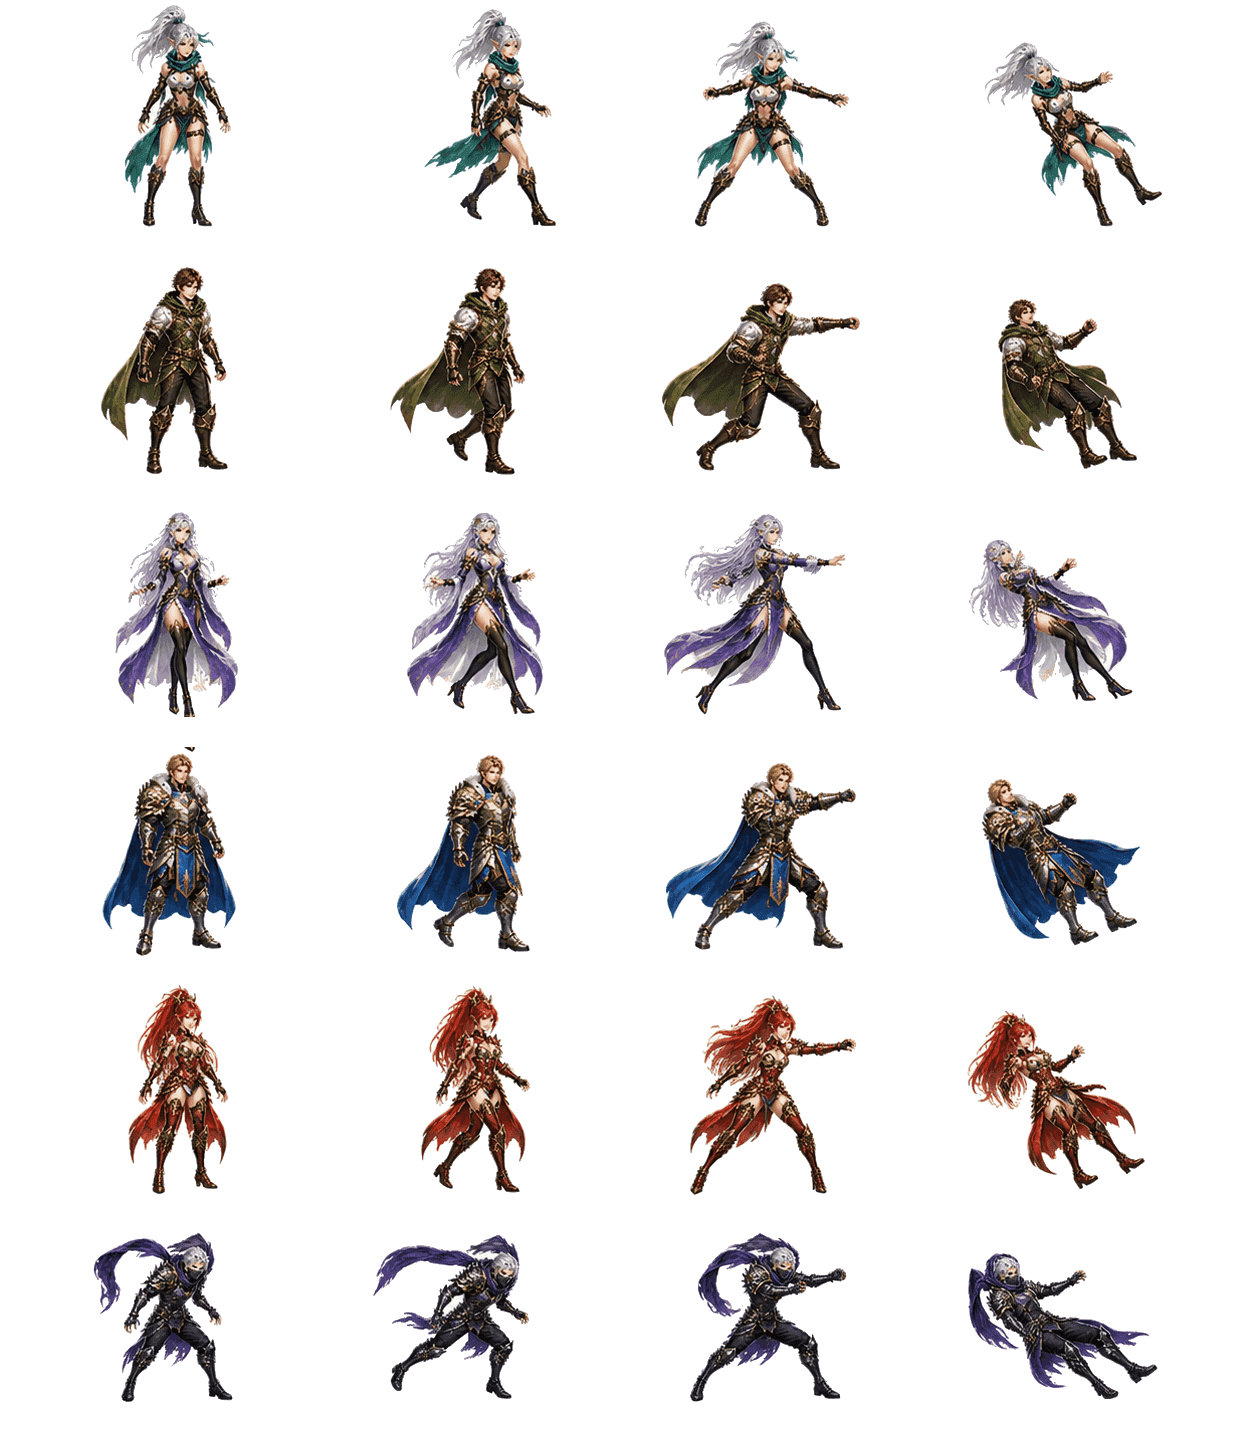
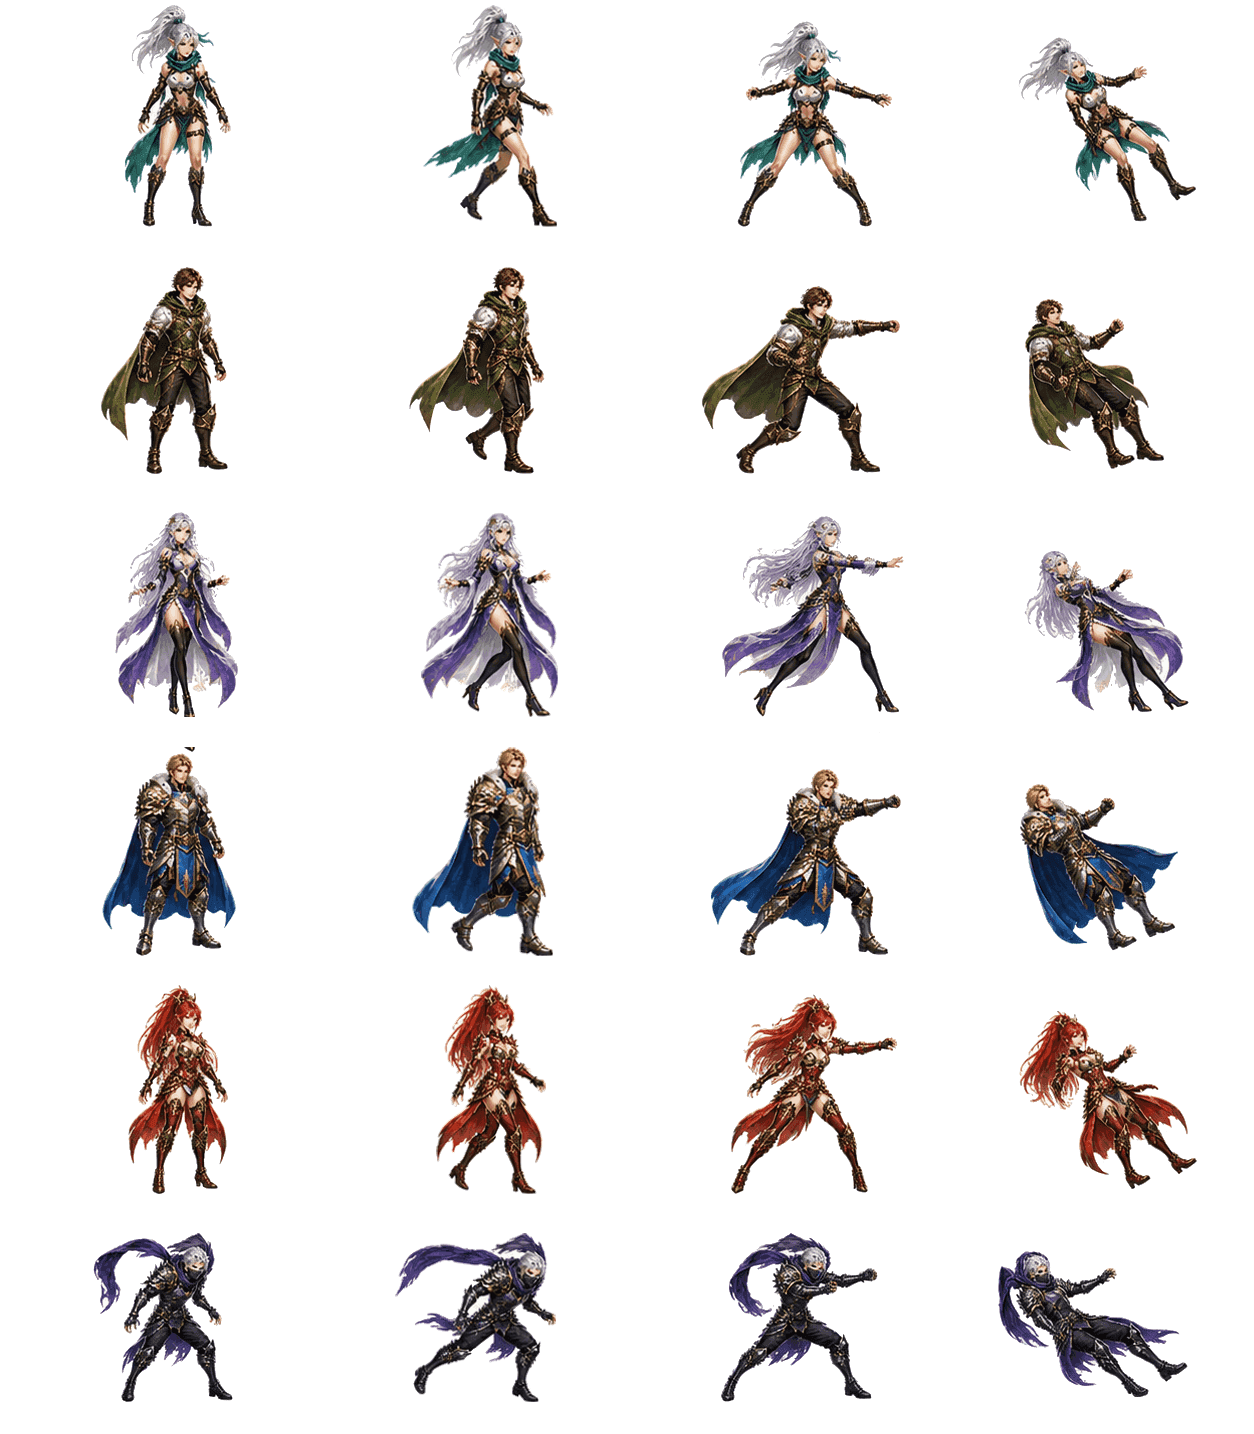
fix(anim): 애니메이션 잘림·어색함 8건 — 동료 가로 눌림 복구, 아틀라스 프레임 정규화, 몬스터 바닥선, 파티 퇴장 동기화, 균열 대열 축소, 화살 원정 바닥선·화살 깃, 대장간 불꽃
- SpriteArt WIDE_CELL: 폭 131.2%→150%·좌측 −25% (재패킹 때 세로만 늘었는데 폭도 줄여 셀 비율 1.312 가 1.147 로 찌그러져 있었다)
- scripts/normalize-ally-atlas.mjs (신규): 3개 아틀라스 31행 90칸 정규화 — 발 높이 편차 26→5px, 가로 중심 67→21px, 대기↔이동 키 차 37→0px
- App.css: 몬스터 이름표 절대 배치(아트가 바닥선에 닿음), party-run-out/in 거리를 min(112vw,760px) 로 통일(주인공·동료 8배 속도 차 해소)
- EventCenter/idle.css: 균열 대열 자동 축소(--rift-scale, 최대치 고정)·크기 축소·보스 이름표 절대 배치 — 뒤쪽 몬스터 2마리가 화면 밖이던 문제
- game/world.ts: HUD_BOTTOM_RESERVE=72 로 바닥을 조작 버튼 위로 (주인공이 버튼에 가려 있었다)
- game/draw.ts: 화살 꼬리 깃을 뒤로 눕힘 (앞쪽으로 벌어져 촉이 두 개로 보였다)
- ForgeGame: 불꽃 시작 위치 6~94% (왼쪽 잘림)
- scripts/verify-anim-clip.mjs (신규, 순차 러너 포함): 변환으로 클리핑 부모를 벗어나는 애니메이션 검출
- verify-checklist: 코치 2단계를 폴링으로 (순차 러너 간헐 실패)

diff --git a/src/idle.css b/src/idle.css
@@ -2323,25 +2323,27 @@
 
 /* 균열 진입 연출 */
 .rift-run { position: absolute; inset: 0; z-index: 30; display: grid; grid-template-rows: auto auto; align-content: center; gap: 10px; padding: 14px; border-radius: 22px; background: rgba(2, 6, 23, 0.94); animation: rift-run-in .25s ease-out; }
-.rift-run-field { position: relative; overflow: hidden; border-radius: 16px; background: var(--area-sky, #0f172a) var(--area-background) center / cover; height: clamp(230px, 44vh, 340px); }
+.rift-run-field { position: relative; overflow: hidden; border-radius: 16px; background: var(--area-sky, #0f172a) var(--area-background) center / cover; height: clamp(196px, 30vh, 260px); background-position: center 30%; }
 .rift-run-field::after { content: ""; position: absolute; inset: 0; background: linear-gradient(180deg, rgba(2,6,23,.25), rgba(2,6,23,.65)); }
 /* 한 줄 대열 — 동료·주인공·몬스터가 같은 바닥선에 이어 선다 */
-.rift-run-line { position: absolute; left: 2%; right: 2%; bottom: 13%; z-index: 2; display: flex; align-items: flex-end; gap: 4px; }
-.rift-run-party { display: flex; align-items: flex-end; gap: 0; --ally-size: 64px; flex: none; }
+/* 대열은 왼쪽 아래를 축으로 통째로 축소된다 (--rift-scale, EventCenter 가 측정해서 넣는다) */
+.rift-run-line { position: absolute; left: 2%; right: 2%; bottom: 12%; z-index: 2; display: flex; align-items: flex-end; gap: 4px; transform: scale(var(--rift-scale, 1)); transform-origin: left bottom; transition: transform .3s ease; }
+.rift-run-party { display: flex; align-items: flex-end; gap: 0; padding-left: 20px; --ally-size: 56px; flex: none; }
 .rift-run-party .titan-ally-art { position: relative !important; transform: none !important; left: auto !important; bottom: auto !important; }
-.rift-hero { display: block; width: 34px; height: 68px; margin-left: 2px; filter: drop-shadow(0 8px 8px rgba(0,0,0,.5)); }
+.rift-hero { display: block; width: 30px; height: 60px; margin-left: 2px; filter: drop-shadow(0 8px 8px rgba(0,0,0,.5)); }
 .rift-hero.is-striking { animation: rift-hero-strike .35s ease-out; }
 @keyframes rift-hero-strike { 40% { transform: translateX(6px); } }
 .rift-run-monsters { display: flex; align-items: flex-end; gap: 2px; flex: none; }
 /* 균열 몬스터 — 사냥터의 .titans-monster 종별 동작을 재사용하되 절대 배치는 끈다 */
 .rift-run-monsters { align-items: flex-end; }
-.rift-run-monsters .titans-monster { position: relative; right: auto; bottom: auto; min-width: 0; width: 70px; overflow: visible; transition: opacity .4s, transform .4s, width .4s, margin .4s; }
-.rift-run-monsters .titans-monster .titan-monster-art { width: 70px; height: 70px; }
+.rift-run-monsters .titans-monster { position: relative; right: auto; bottom: auto; min-width: 0; width: 62px; overflow: visible; transition: opacity .4s, transform .4s, width .4s, margin .4s; }
+.rift-run-monsters .titans-monster .titan-monster-art { width: 62px; height: 62px; }
 .rift-run-monsters .titans-monster.is-approaching { animation: rift-step-in .38s ease-out both; }
 @keyframes rift-step-in { from { transform: translateX(34px); opacity: .2; } }
-.rift-run-monsters .titans-monster.rift-boss { width: 96px; margin-left: 2px; }
-.rift-run-monsters .titans-monster.rift-boss .titan-monster-art { width: 96px; height: 96px; }
-.rift-run-monsters .titans-monster.rift-boss strong { font-size: 10px; color: #fde68a; text-shadow: 0 1px 3px #000; }
+.rift-run-monsters .titans-monster.rift-boss { width: 88px; margin-left: 2px; }
+.rift-run-monsters .titans-monster.rift-boss .titan-monster-art { width: 88px; height: 88px; }
+.rift-run-monsters .titans-monster.rift-boss { position: relative; }
+.rift-run-monsters .titans-monster.rift-boss strong { position: absolute; left: 50%; bottom: -2px; transform: translateX(-50%); white-space: nowrap; font-size: 10px; color: #fde68a; text-shadow: 0 1px 3px #000, 0 0 6px #000; pointer-events: none; }
 /* 쓰러지면 폭이 0 으로 접혀 다음 몬스터가 앞으로 당겨진다 */
 .rift-run-monsters .titans-monster.rift-down { opacity: 0; width: 0 !important; margin: 0; transform: translateY(8px) scale(.85); pointer-events: none; }
 .rift-run-monsters .titans-monster.rift-hidden { opacity: 0; width: 0 !important; margin: 0; transform: translateX(30px); pointer-events: none; }

diff --git a/src/EventCenter.tsx b/src/EventCenter.tsx
@@ -1,4 +1,4 @@
-import { useEffect, useMemo, useState } from "react";
+import { useEffect, useMemo, useRef, useState } from "react";
 import { combatPower, type CharacterProgress } from "./progression/model";
 import { testModeEnabled, updateCharacterProgress } from "./progression/storage";
 import { computeIdleYield, formatDuration, slotLevels, stageCeilingFor } from "./progression/idle";
@@ -586,6 +586,30 @@ function RiftRunOverlay({ run, area, party, progress, onClose }: { run: { name: 
     const done = window.setTimeout(onClose, RIFT_TICK_MS * RIFT_END_TICK);
     return () => { window.clearInterval(id); window.clearTimeout(done); };
   }, [onClose]);
+  // 대열이 필드보다 넓으면 통째로 줄인다 — 파티 3명 + 몬스터 3마리는 390px 화면에서 527px 이라
+  // 예전엔 뒤쪽 두 마리가 화면 밖에 서서 "몬스터가 한 마리뿐"으로 보였다 (2026-09-15 실측).
+  const lineRef = useRef<HTMLDivElement>(null);
+  const needRef = useRef(0);
+  const [lineScale, setLineScale] = useState(1);
+  useEffect(() => {
+    const el = lineRef.current;
+    if (!el) return;
+    const fit = () => {
+      const avail = el.clientWidth;
+      // 자식(동료 줄·몬스터 줄)의 레이아웃 폭만 더한다 — scrollWidth 는 .ally-body 의 투명 여백 넘침까지 세어 과하게 줄였다
+      const gap = parseFloat(getComputedStyle(el).columnGap || "0") || 0;
+      const kids = [...el.children] as HTMLElement[];
+      const width = kids.reduce((sum, k) => sum + k.offsetWidth, 0) + gap * Math.max(0, kids.length - 1);
+      // 쓰러진 몬스터가 접히면 필요 폭이 줄지만 축소율은 최대치로 고정한다 — 안 그러면 전투 내내 화면이 줌인된다
+      needRef.current = Math.max(needRef.current, width);
+      const need = needRef.current;
+      setLineScale(need > avail + 1 ? Math.max(0.6, avail / need) : 1);
+    };
+    fit();
+    const ro = new ResizeObserver(fit);
+    ro.observe(el);
+    return () => ro.disconnect();
+  }, [tick, party.length]);
   const tl = riftTimeline(tick);
   const kinds = [0, 1, 2].map((i) => area.normalKinds[i % area.normalKinds.length]);
   const monsterClass = (kind: string, phase: RiftPhase, i: number) => `titans-monster kind-${kind} combat-${kind === "dragon" ? "ranged" : "melee"} ${phase === "approach" ? "is-approaching action-idle" : phase === "prepare" ? "action-prepare" : phase === "attack" ? "action-attack" : phase === "hit" ? `action-idle ${(tick + i) % 2 ? "hit-a" : "hit-b"}` : "action-idle"} ${phase === "down" ? "rift-down" : ""} ${phase === "hidden" ? "rift-hidden" : ""}`;
@@ -595,7 +619,7 @@ function RiftRunOverlay({ run, area, party, progress, onClose }: { run: { name: 
     <div className="rift-run" role="status" onClick={onClose} style={{ "--area-sky": area.sky, "--area-background": `url(${area.background})` } as React.CSSProperties}>
       <div className="rift-run-field">
         {/* 한 줄 대열: 동료 → 주인공(선두) → 몬스터 줄. 쓰러진 몬스터는 폭 0 으로 접혀 다음 몬스터가 앞으로 당겨진다 — 예전엔 두 무리가 좌우 끝에 따로 서서 허공을 쳤다 */}
-        <div className="rift-run-line">
+        <div className="rift-run-line" ref={lineRef} style={{ "--rift-scale": lineScale } as React.CSSProperties}>
         <div className="rift-run-party">
           {party.map((id, i) => <AllyArt key={id} id={id as never} attacking pulse={tl.strike >= 0 ? tl.strike * 3 + i : 0} hitPulse={tl.monsters.some((p) => p === "attack") || tl.boss === "attack" ? tick : 0} partySlot={i} engaged />)}
           <span className={`rift-hero ${tl.strike >= 0 ? "is-striking" : ""}`} aria-hidden="true">

diff --git a/src/App.css b/src/App.css
@@ -2438,10 +2438,18 @@ img.forge-sword.painted { width: auto; max-width: 78%; object-fit: contain; }
 @keyframes monster-crit-recoil-b { 40% { transform:translateX(7px) scale(.97); } }
 @keyframes monster-defeat { to { opacity:0; transform:translateY(10px) scale(.72); filter:brightness(2) blur(3px); } }
 
+/* 이름표가 세로 플렉스의 한 칸을 차지해 몬스터 아트를 바닥선보다 25px 띄웠다 (동료·주인공은 bottom 10% 에 발이 닿는다).
+   절대 배치로 빼서 몬스터가 같은 지면에 서게 한다 — 2026-09-15 실측 */
 .titans-monster strong {
+  position: absolute;
+  left: 50%;
+  bottom: -17px;
+  transform: translateX(-50%);
+  white-space: nowrap;
   color: #f8fafc;
   font-size: 12px;
-  text-shadow: 0 2px 6px #000;
+  text-shadow: 0 2px 6px #000, 0 0 5px #000;
+  pointer-events: none;
 }
 
 .titan-monster-art {
@@ -3160,8 +3168,8 @@ img.forge-sword.painted { width: auto; max-width: 78%; object-fit: contain; }
 .titans-field.phase-stage-enter .titans-monster { animation:boss-enter-right .62s cubic-bezier(.18,.72,.28,1) both; }
 .titans-field.phase-stage-exit .titans-allies { animation: party-run-out .68s .09s cubic-bezier(.35,.05,.8,.35) forwards; }
 .titans-field.phase-stage-enter .titans-allies { animation: party-run-in .46s .08s ease-out both; }
-@keyframes party-run-out { 0% { transform:translateX(0) translateY(0); } 35% { transform:translateX(45%) translateY(-5px); } 100% { transform:translateX(760%) translateY(0); } }
-@keyframes party-run-in { from { transform:translateX(-220%) translateY(-4px); } to { transform:translateX(0) translateY(0); } }
+@keyframes party-run-out { 0% { transform:translateX(0) translateY(0); } 22% { transform:translateX(-14px) translateY(-4px); } 100% { transform:translateX(min(112vw, 760px)) translateY(0); } }
+@keyframes party-run-in { from { transform:translateX(max(-96vw, -640px)) translateY(-4px); } to { transform:translateX(0) translateY(0); } }
 @keyframes boss-enter-right { from { opacity:0; transform:translateX(180%) scale(1.08); } 70% { opacity:1; transform:translateX(-5%) scale(.98); } to { opacity:1; transform:translateX(0) scale(1); } }
 .titans-clear-banner { position:absolute; z-index:14; left:50%; top:25%; transform:translate(-50%,-50%); color:#fef3c7; font-size:clamp(24px,7vw,44px); font-weight:1000; letter-spacing:.08em; text-shadow:0 0 18px #f59e0b,0 4px 0 #7c2d12; animation:clear-banner .5s ease-out both; pointer-events:none; }
 .titans-transition-skip { position:absolute; z-index:16; top:42px; right:12px; padding:7px 13px; border:1px solid rgba(255,255,255,.45); border-radius:999px; color:#f8fafc; background:rgba(2,6,23,.72); font-size:11px; font-weight:900; }

diff --git a/src/ForgeGame.tsx b/src/ForgeGame.tsx
@@ -518,7 +518,7 @@ export function ForgeGame({ insets, userHash, onBack }: ForgeGameProps) {
                       style={
                         {
                           "--ember-i": i,
-                          left: `${(i * 37) % 100}%`,
+                          left: `${6 + ((i * 37) % 88)}%`,
                         } as CSSProperties
                       }
                     />
@@ -716,7 +716,7 @@ export function ForgeGame({ insets, userHash, onBack }: ForgeGameProps) {
             /* 견갑 강화 — 검 강화와 같은 골격(무대 → 패널 → 4스탯 → 안내 → 강화 → 판매)으로 통일 (사용자 지시) */
             <>
               <section className={`forge-stage armor-forge-stage forge-phase-${phase} armor-tier-${armorTierOf(save.armorLevel)}`} data-armor-tier={armorTierOf(save.armorLevel)}>
-                <div className="forge-embers" aria-hidden="true">{Array.from({length:12},(_,i)=><i key={i} style={{"--ember-i":i,left:`${(i*37)%100}%`} as CSSProperties}/>)}</div>
+                <div className="forge-embers" aria-hidden="true">{Array.from({length:12},(_,i)=><i key={i} style={{"--ember-i":i,left:`${6+((i*37)%88)}%`} as CSSProperties}/>)}</div>
                 <div className="sword-aura" />
                 <ShoulderIcon id={equippedShoulder} />
                 <div className="forge-sword-name"><span>+{save.armorLevel}</span><strong>{equippedShoulder ? shoulderMeta.find((item)=>item.id===equippedShoulder)?.name : "견갑 미장착"}</strong></div>

diff --git a/src/titans/SpriteArt.tsx b/src/titans/SpriteArt.tsx
@@ -100,8 +100,12 @@ const SKIN_ROWS = 13;
 const SKIN_SPECIAL_ATLAS = assetUrl("titans/generated/allies/ally-skin-special-atlas-v1.png");
 const SKIN_SPECIAL_ROW: Record<string, number> = { "sera_light-halo": 0 };
 const SKIN_SPECIAL_ROWS = 1;
-// 재패킹 아틀라스(scripts/repack-ally-atlas.mjs): 셀 313.5×239 — 원래 209px 영역이 요소 높이 100%, 발 확장 30px 은 아래로 14.35% 삐져나온다
-const WIDE_CELL: CSSProperties = { width: "131.2%", height: "114.35%", left: "-15.6%", top: 0, bottom: "auto", right: "auto" };
+/**
+ * 재패킹 아틀라스(scripts/repack-ally-atlas.mjs): 셀 313.5×239 — 원래 209px 영역이 요소 높이 100%, 발 확장 30px 은 아래로 14.35% 삐져나온다.
+ * 폭은 재패킹 전(313.5px = 150%)과 같다 — 세로만 209→239 로 늘었으므로 높이만 114.35% 로 올린다.
+ * 2026-09-11~14 동안 폭을 131.2% 로 함께 줄여 동료가 가로로 12.5% 눌려 있었다 (셀 비율 1.312 vs 렌더 1.147). 원래 비율로 되돌린다.
+ */
+const WIDE_CELL: CSSProperties = { width: "150%", height: "114.35%", left: "-25%", top: 0, bottom: "auto", right: "auto" };
 
 function atlasCell(atlas: string, cols: number, rows: number, col: number, row: number, wide: boolean): CSSProperties {
   return {

diff --git a/src/game/world.ts b/src/game/world.ts
@@ -5,8 +5,14 @@ import { emptyShopLevels, statsFromLevels } from "./shop";
 import { getStage } from "./stages";
 import type { GameWorld, Platform, PlayerStats } from "./types";
 
+/**
+ * 조작 버튼(.action-dock, 높이 74px)이 화면 맨 아래에 깔려 있어 바닥이 그 뒤였다 —
+ * 주인공이 버튼에 가려 "피하는 순간 내 캐릭터가 안 보이는" 상태였다 (2026-09-15 실측: 발 814, 독 770~844).
+ * 바닥을 독 위로 올린다. 발판은 playH(= floorY − safeTop) 비율이라 같이 따라 올라간다.
+ */
+export const HUD_BOTTOM_RESERVE = 72;
 function floorYOf(height: number, safeBottom: number): number {
-  return height - safeBottom - 18;
+  return height - safeBottom - 18 - HUD_BOTTOM_RESERVE;
 }
 
 function materializePlatforms(

diff --git a/src/game/draw.ts b/src/game/draw.ts
@@ -191,13 +191,14 @@ function drawArrow(ctx: CanvasRenderingContext2D, a: Arrow): void {
   ctx.closePath();
   ctx.fill();
 
-  // fletching
+  // fletching — 축 위 한 점에서 뒤·바깥으로 눕는 꼬리 깃 (촉보다 얇게)
   ctx.strokeStyle = "#fda4af";
+  ctx.lineWidth = Math.max(1.4, ctx.lineWidth * 0.6);
   ctx.beginPath();
-  ctx.moveTo(bx, by);
-  ctx.lineTo(bx + cos * 6 + px * 5, by + sin * 6 + py * 5);
-  ctx.moveTo(bx, by);
-  ctx.lineTo(bx + cos * 6 - px * 5, by + sin * 6 - py * 5);
+  ctx.moveTo(bx + cos * 8, by + sin * 8);
+  ctx.lineTo(bx - cos * 1.5 + px * 3.8, by - sin * 1.5 + py * 3.8);
+  ctx.moveTo(bx + cos * 8, by + sin * 8);
+  ctx.lineTo(bx - cos * 1.5 - px * 3.8, by - sin * 1.5 - py * 3.8);
   ctx.stroke();
 }
 

diff --git a/docs/POLISH_2026-09-08.md b/docs/POLISH_2026-09-08.md
@@ -159,3 +159,24 @@
 - **비트 노트 종류가 저레벨에 없음**: LEVEL_FEATURES 1~4 에 홀드(10/10/12/11 노트마다)·점프(간격 16→12→10 레벨별)·롤 4+·홀드 점프 5+ 를 넣었다. 초보 보호: 유효 레벨 ≤ 3 에서 롱노트를 일찍 떼면 콤보만 끊기고 체력은 안 깎임, 릴리즈 허용 창 0.22~0.35초(느린 곡). 초보 봇 게이트 통과.
 - **보석 ∞ · 원화 결제**: `progression/storage.TEST_PHASE = true` — 모든 빌드에서 보석 무제한(지갑 ∞ 표시)과 ₩ 상품·시즌 패스 테스트 구매. 출시 전 false 로 내린다.
 - **뽑기 이펙트**: 소환진 불꽃 입자, 공개 순간 섬광, SR/SSR 회전 광선(SSR 금색), SR/SSR 카드 광택 스윕, SSR 그리드 흔들림.
+
+## 15. 애니메이션 잘림·어색함 정리 (2026-09-15)
+
+`scripts/verify-anim-clip.mjs` 를 새로 만들어(순차 러너에 포함) 애니메이션 중인 요소가 `overflow:hidden` 조상 밖으로 나가는지 프레임 단위로 잰다.
+레이아웃 박스는 안인데 변환 박스만 밖인 경우만 잘림으로 세고, 의도적으로 화면 밖으로 나가는 연출(퇴장·등장·배경 흐름)은 제외한다.
+
+**찾아서 고친 것**
+
+| 증상 | 원인 | 조치 |
+|---|---|---|
+| 동료가 가로로 눌려 보임 | 아틀라스 재패킹(09-11) 때 셀 높이만 209→239 로 늘었는데 CSS 폭도 150%→131.2% 로 같이 줄여, 셀 비율 1.312 가 렌더 1.147 로 찌그러졌다 | `WIDE_CELL` 을 폭 150%·좌측 −25% 로 되돌림 (세로 배율 0.4115 = 가로 배율) |
+| 걸을 때 캐릭터가 커졌다 작아졌다, 맞으면 공중에 뜸 | 포즈마다 원화를 따로 생성해 프레임 간 발 높이 최대 26px·가로 중심 60px·키 37px 차이 | `scripts/normalize-ally-atlas.mjs` 로 31행 90칸 정규화 — 발 높이 편차 26→5px, 가로 중심 67→21px(의도한 전진·후퇴 ±10px), 대기↔이동 키 차 37→0px |
+| 몬스터가 파티보다 25px 떠 있음 | 이름표가 세로 플렉스 한 칸을 차지해 아트를 밀어 올렸다 | 이름표를 절대 배치로 빼 아트가 바닥선에 닿게 (실측 몬스터 96 vs 주인공 93) |
+| 스테이지 전환 때 동료만 순간 사라지고 주인공만 달려나감 | `translateX(760%)` 가 각자 자기 폭 기준이라 주인공 42px→319px, 동료 컨테이너 364px→2766px 로 8배 차이 | 거리를 `min(112vw, 760px)` 로 통일 — 실측 퇴장 시 주인공 103→294, 동료 103→212 로 함께 이동 |
+| 균열에서 몬스터가 한 마리만 보임 | 대열(527px)이 필드(348px)보다 넓어 뒤쪽 두 마리가 화면 밖. 쓰러지면 폭이 접혀 남은 대열이 줌인되는 부작용도 | 대열을 자식 레이아웃 폭으로 재서 통째로 축소(`--rift-scale`, 최대치 고정 0.88), 크기 축소(동료 56·주인공 30·몬스터 62·보스 88), 보스 이름표 절대 배치 |
+| 화살 원정에서 주인공이 조작 버튼에 가림 | 바닥선 814 가 버튼 독(770~844) 안이었다 | `HUD_BOTTOM_RESERVE = 72` 로 바닥을 독 위로 (발판은 `playH` 비율이라 함께 이동). 검객 봇 1·2스테이지 5/5, 4스테이지 4/5 유지 |
+| 화살이 양쪽에 촉이 달린 것처럼 보임 | 꼬리 깃이 꼬리에서 **앞쪽·바깥**으로 벌어져 촉과 크기가 비슷한 반대 방향 촉이 됐다 | 축 위 한 점에서 **뒤쪽·바깥**으로 눕히고 선 두께를 촉의 60% 로 |
+| 대장간 불꽃이 왼쪽에서 잘림 | 시작 위치 0% 에서 −15px 표류 | 시작 위치를 6~94% 안쪽으로 |
+
+**남은 것**: 견갑 티어 시트(4칸)는 티어별 발 높이가 76px 달라 강화 시 견갑이 몸에서 위아래로 움직인다 — 애니메이션이 아니라 정적 교체라 이번 범위에서 제외했다.
+헤드리스 브라우저는 오디오를 못 열어 비트 수련 세션이 생성되지 않는다(노트 필드가 검게 보임) — 기기 스크린샷에서는 정상이며, 정적 렌더 하니스로 노트 종류를 따로 검증한다.
